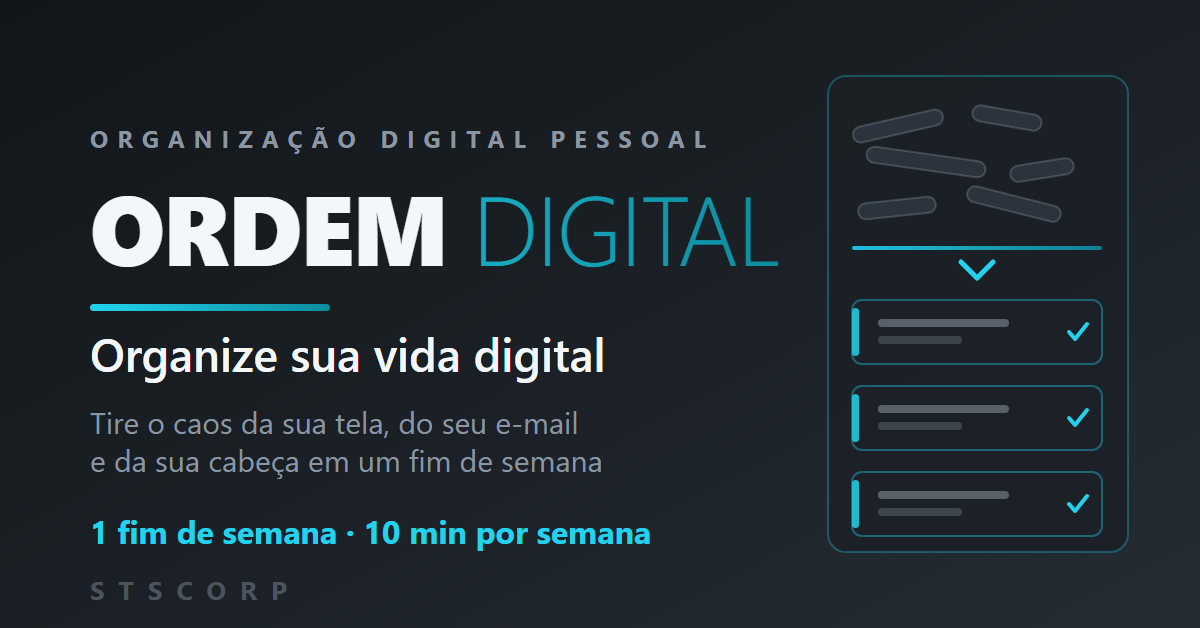
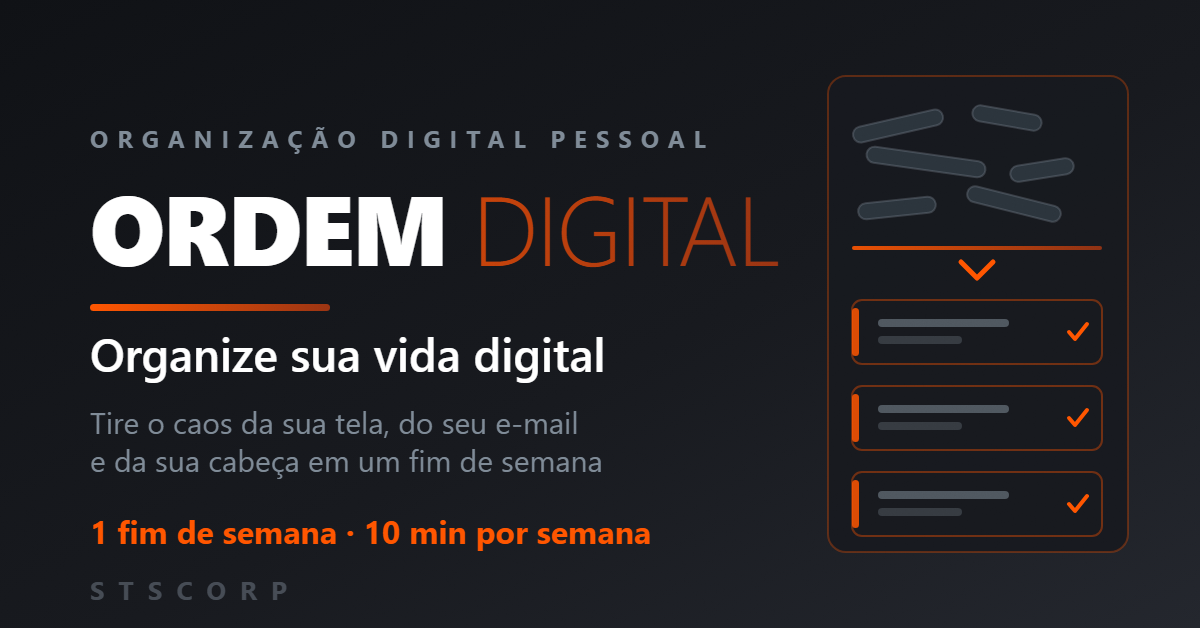
publica: ordem-digital (https://stscorp.netlify.app/p/ordem-digital/)

diff --git a/p/ordem-digital/index.html b/p/ordem-digital/index.html
@@ -5,13 +5,13 @@
 <meta charset="utf-8">
 <meta name="viewport" content="width=device-width, initial-scale=1">
 <title>Ordem Digital — Organize sua vida digital</title>
-<meta name="description" content="Ordem Digital: organize arquivos, e-mail e celular em um fim de semana. 7 módulos, 38 páginas, checklist de 8 folhas. de R$ 29,90 por R$ 14,99, garantia de 7 dias.">
+<meta name="description" content="Ordem Digital: organize arquivos, e-mail e celular em um fim de semana. 7 módulos, 73 páginas, checklist de 8 folhas. de R$ 29,90 por R$ 14,99, garantia de 7 dias.">
 <meta property="og:type" content="product">
-<meta property="og:url" content="https://excel-descomplicado.netlify.app/p/ordem-digital/"
+<meta property="og:url" content="https://stscorp.netlify.app/p/ordem-digital/"
 <meta property="og:site_name" content="STSCORP">
 <meta property="og:title" content="Ordem Digital — Organize sua vida digital">
-<meta property="og:description" content="7 módulos, 38 páginas, checklist de 8 folhas. de R$ 29,90 por R$ 14,99, garantia de 7 dias.">
-<meta property="og:image" content="https://excel-descomplicado.netlify.app/p/ordem-digital/banner_social.png">
+<meta property="og:description" content="7 módulos, 73 páginas, checklist de 8 folhas. de R$ 29,90 por R$ 14,99, garantia de 7 dias.">
+<meta property="og:image" content="https://stscorp.netlify.app/p/ordem-digital/banner_social.png">
 <meta name="twitter:card" content="summary_large_image">
 <link rel="icon" href="data:,">
 <style>
@@ -247,7 +247,7 @@ p.nota{max-width:46em;margin:22px auto 0;color:var(--cinza);font-size:.95rem;
 
 <header class="topo">
   <div class="wrap">
-    <a class="marca" href="#topo">Ordem <span>Digital</span></a>
[1 lines of base64/hex data omitted]
     <nav class="nav" aria-label="Seções da página">
       <a href="#problema">O problema</a>
       <a href="#programa">O programa</a>
@@ -272,7 +272,7 @@ p.nota{max-width:46em;margin:22px auto 0;color:var(--cinza);font-size:.95rem;
         inteira — vai organizar três coisas, com critério, e ficar com um
         ritual de 10 minutos por semana que impede o caos de voltar.</p>
         <ul class="provas">
-          <li><b>38</b> páginas</li>
+          <li><b>73</b> páginas</li>
           <li><b>7</b> módulos</li>
           <li>checklist de <b>8</b> folhas</li>
           <li>1 fim de semana de reset</li>
@@ -283,7 +283,7 @@ p.nota{max-width:46em;margin:22px auto 0;color:var(--cinza);font-size:.95rem;
         </div>
       </div>
       <div>
[2 lines of base64/hex data omitted]
              alt="Capa do eBook Ordem Digital, com o título Ordem Digital e o
              subtítulo Organize sua vida digital">
       </div>
@@ -371,7 +371,7 @@ p.nota{max-width:46em;margin:22px auto 0;color:var(--cinza);font-size:.95rem;
         <div class="quando">Assim que o pagamento confirmar</div>
         <h3>Na hora da compra</h3>
         <p>o livro inteiro e o checklist para imprimir</p>
-        <ul class="itens"><li><b>Ordem_Digital.pdf</b><span>o eBook, 38 páginas, 7 módulos + checklist no fim</span></li><li><b>Ordem_Digital_Checklist.pdf</b><span>as mesmas 8 folhas em arquivo próprio, para imprimir</span></li></ul>
+        <ul class="itens"><li><b>Ordem_Digital.pdf</b><span>o eBook, 73 páginas, 7 módulos + checklist no fim</span></li><li><b>Ordem_Digital_Checklist.pdf</b><span>as mesmas 8 folhas em arquivo próprio, para imprimir</span></li></ul>
       </div>
     </div>
     <p class="nota">Não existe etapa adiada nem conteúdo escondido: o que está
@@ -433,7 +433,7 @@ p.nota{max-width:46em;margin:22px auto 0;color:var(--cinza);font-size:.95rem;
       sem taxa de renovação.</p>
       <p class="sem-checkout">Os botões de compra entram nesta página assim que o checkout estiver aberto.</p>
       <ul>
-        <li>38 páginas · 7 módulos · sumário com links</li>
+        <li>73 páginas · 7 módulos · sumário com links</li>
         <li>Checklist de 8 folhas, no fim do eBook e em arquivo próprio</li>
         <li>Um fim de semana de reset, 10 minutos por semana de manutenção</li>
         <li>Arquivos liberados assim que o pagamento confirmar</li>
@@ -511,12 +511,12 @@ p.nota{max-width:46em;margin:22px auto 0;color:var(--cinza);font-size:.95rem;
 
 <section class="fim">
   <div class="wrap">
[2 lines of base64/hex data omitted]
          alt="O eBook Ordem Digital em perspectiva, com a capa e o resumo do
          que vem no download">
     <h2>Um fim de semana para organizar. Dez minutos por semana para manter.</h2>
     <p class="lead" style="max-width:36em;margin:0 auto 6px">7
-    módulos, 38 páginas e checklist de 8 folhas. de R$ 29,90 por R$ 14,99,
+    módulos, 73 páginas e checklist de 8 folhas. de R$ 29,90 por R$ 14,99,
     garantia de 7 dias, arquivos liberados assim que o pagamento confirmar.</p>
     <div class="cta">
 
